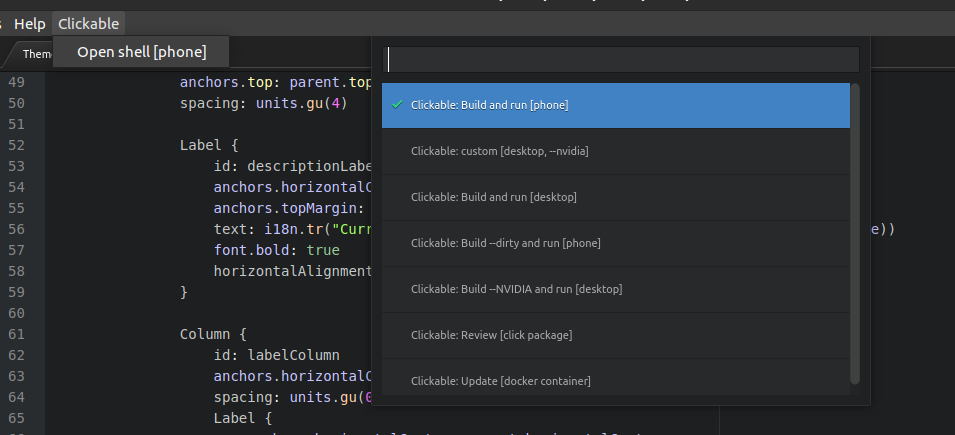
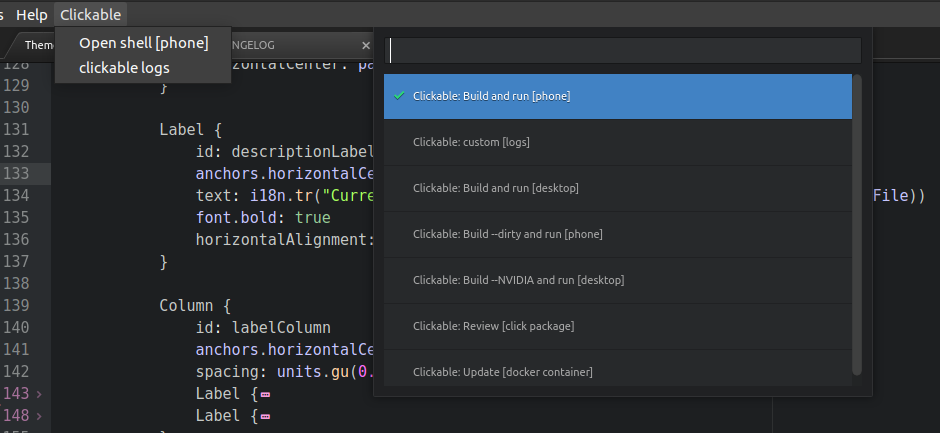
update screenshot and changelog for v1.1.0

diff --git a/CHANELOG.md b/CHANELOG.md
@@ -1,5 +1,8 @@
 ## Changelog
 
+v1.1.0
+- add clickable logs to the clickable menu
+
 v1.0.0
 - republish clickable plugin for atom
 - adding new options for
